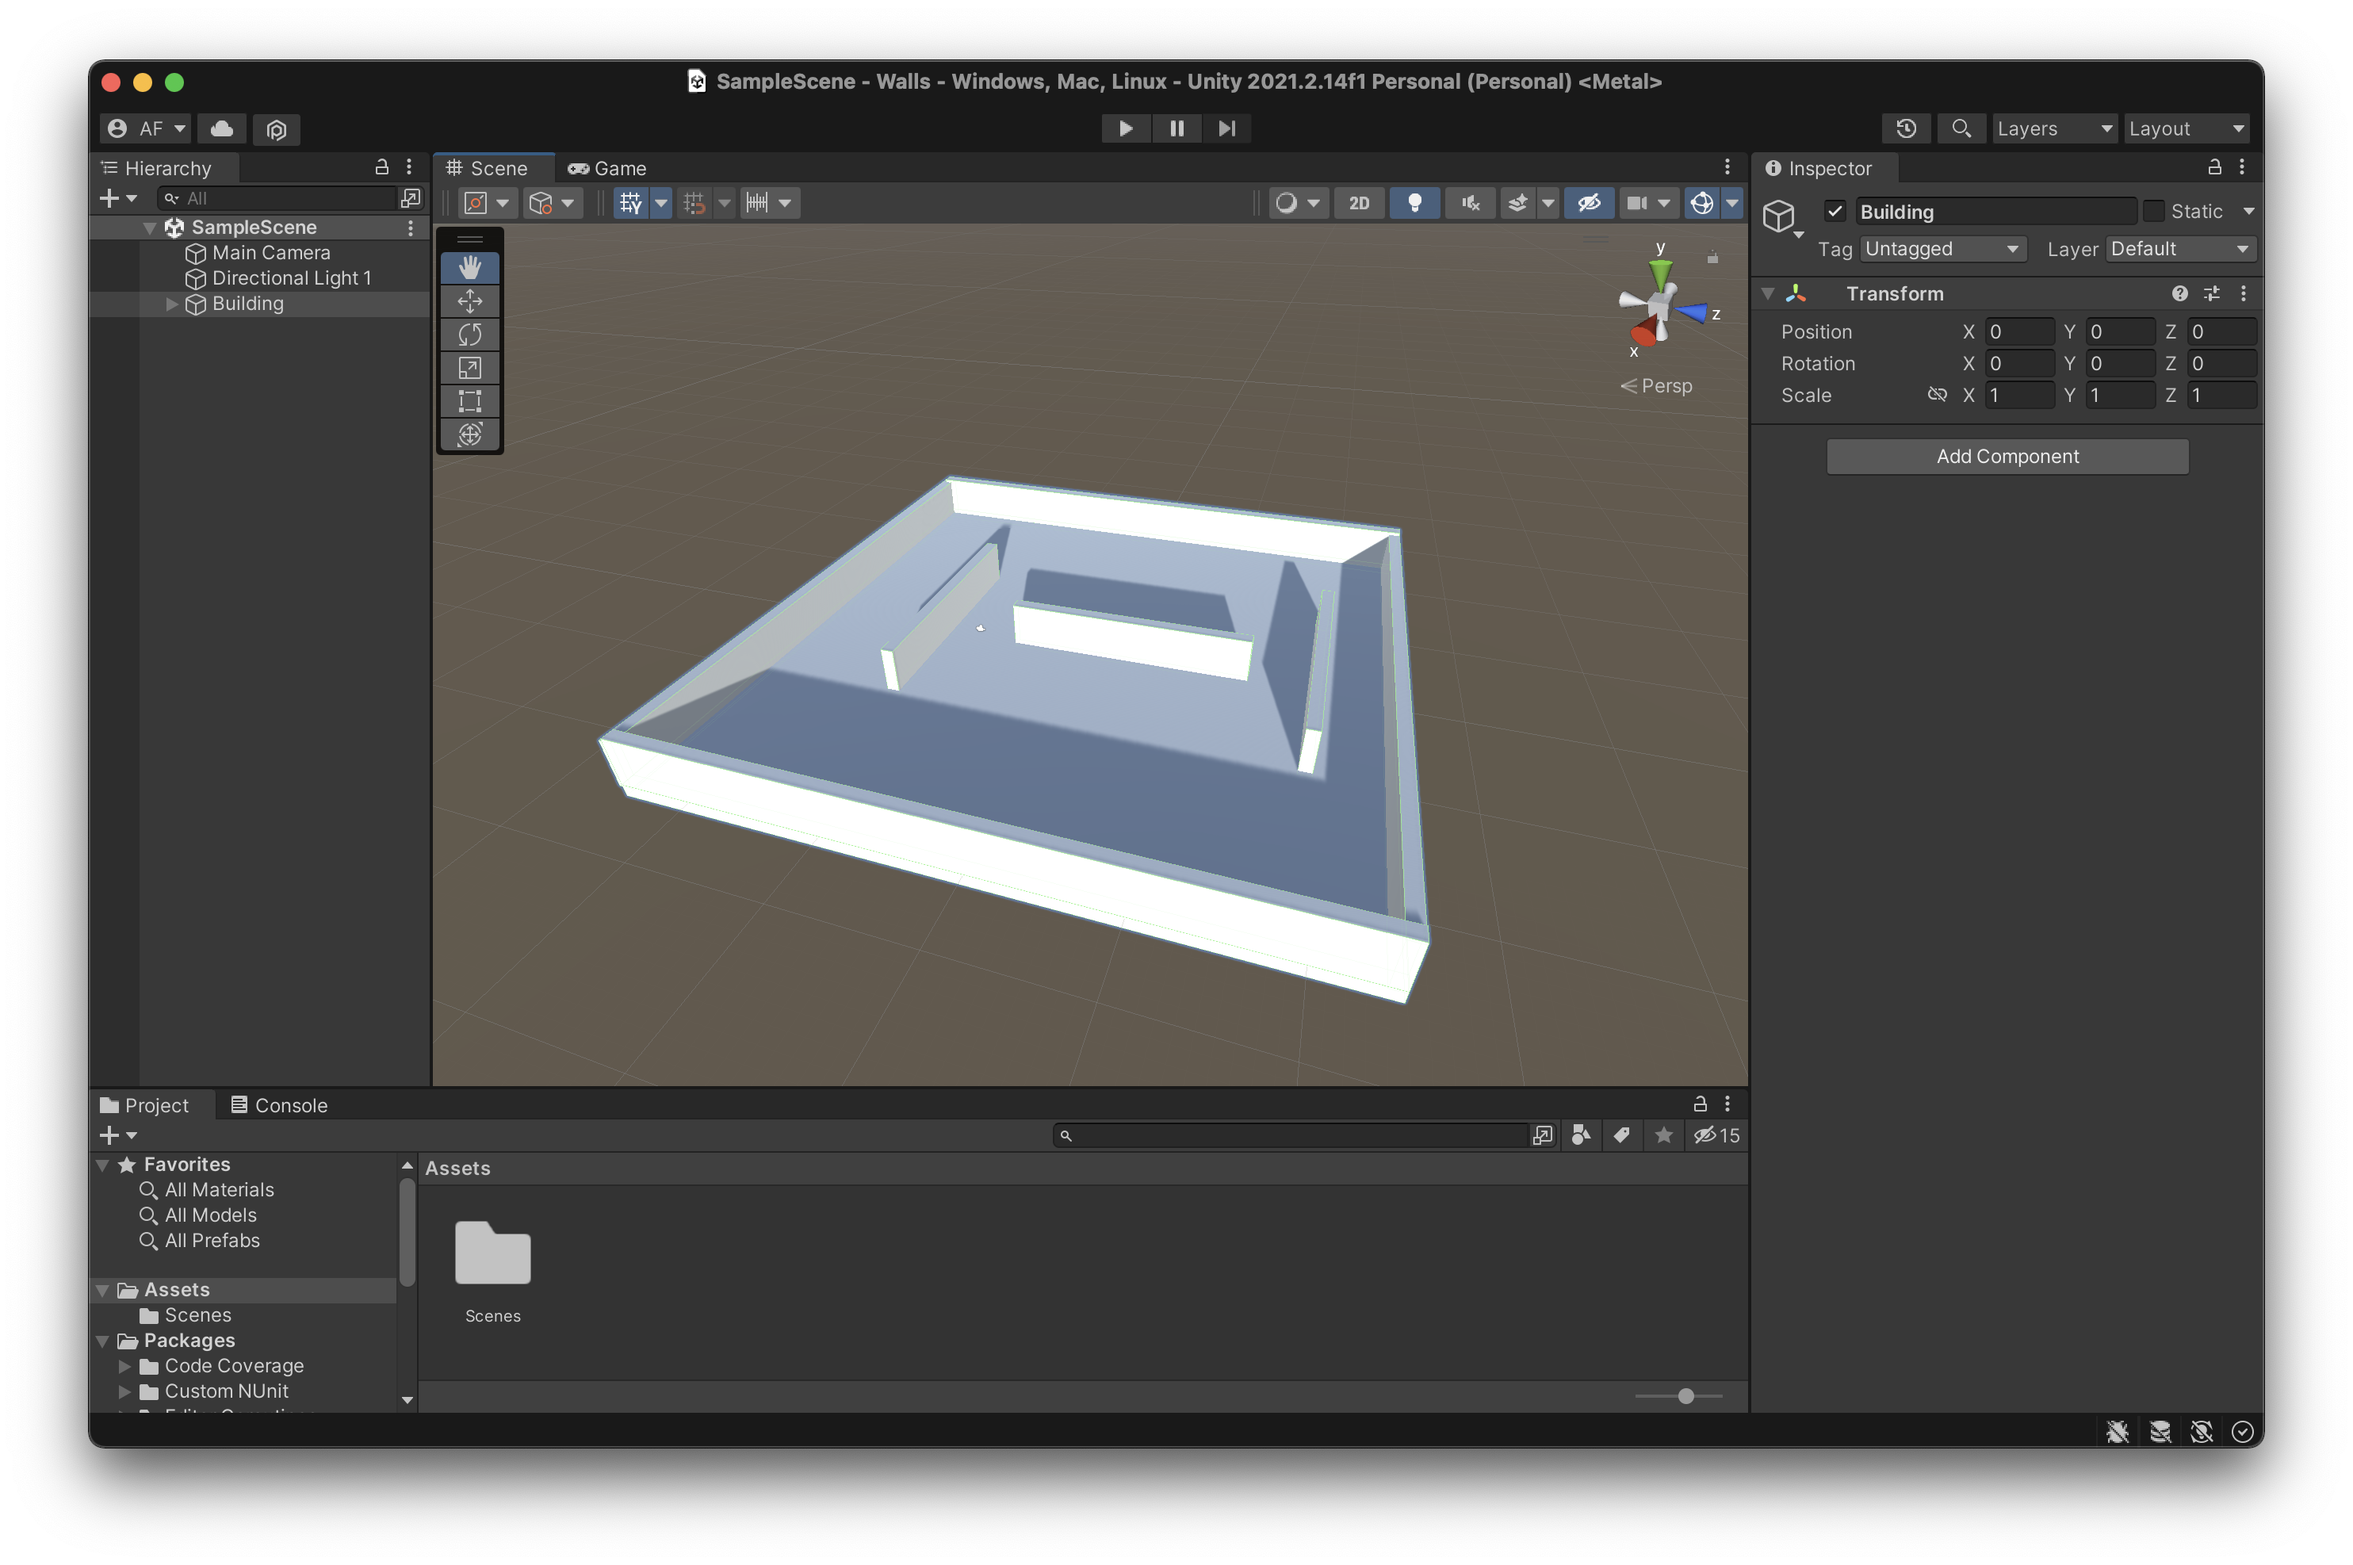
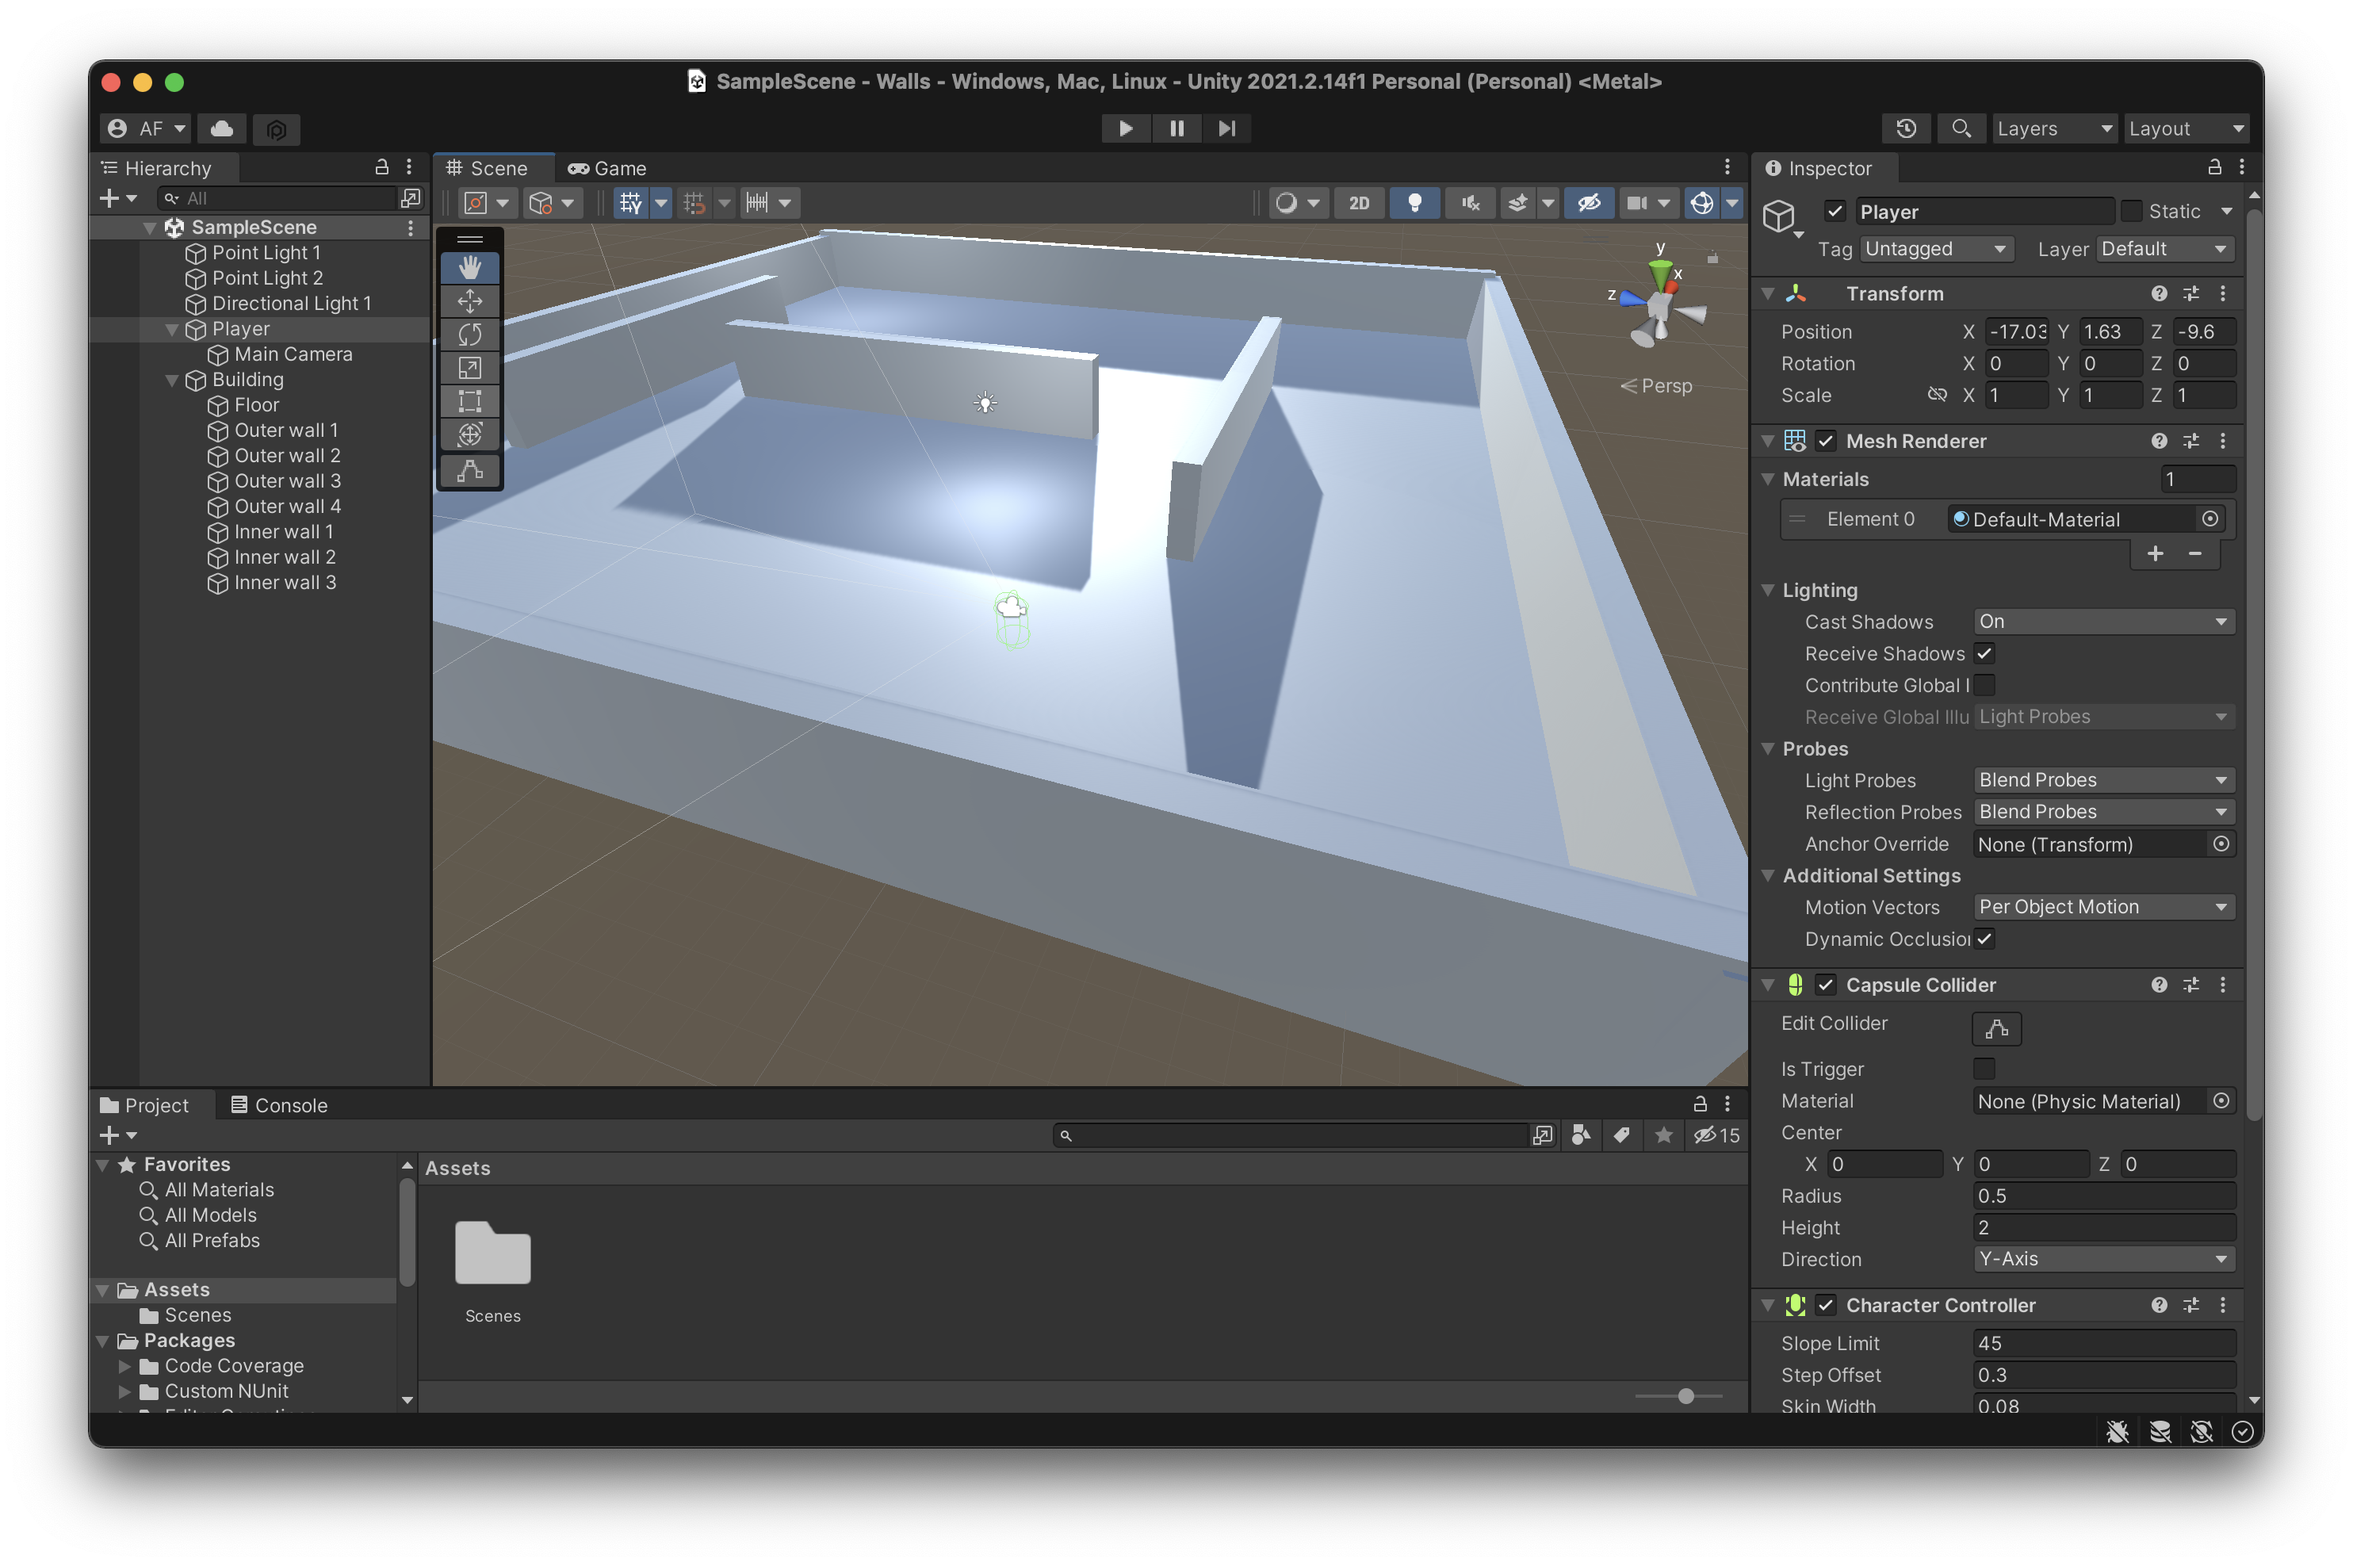
Rotate the player capsule

diff --git a/Walls/Assets/Spin.cs b/Walls/Assets/Spin.cs
@@ -1,0 +1,20 @@
+using System.Collections;
+using System.Collections.Generic;
+using UnityEngine;
+
+public class Spin : MonoBehaviour
+{
+    public float speed = 3.0f;
+
+    // Start is called before the first frame update
+    void Start()
+    {
+        
+    }
+
+    // Update is called once per frame
+    void Update()
+    {
+        transform.Rotate(0, speed, 0);
+    }
+}
